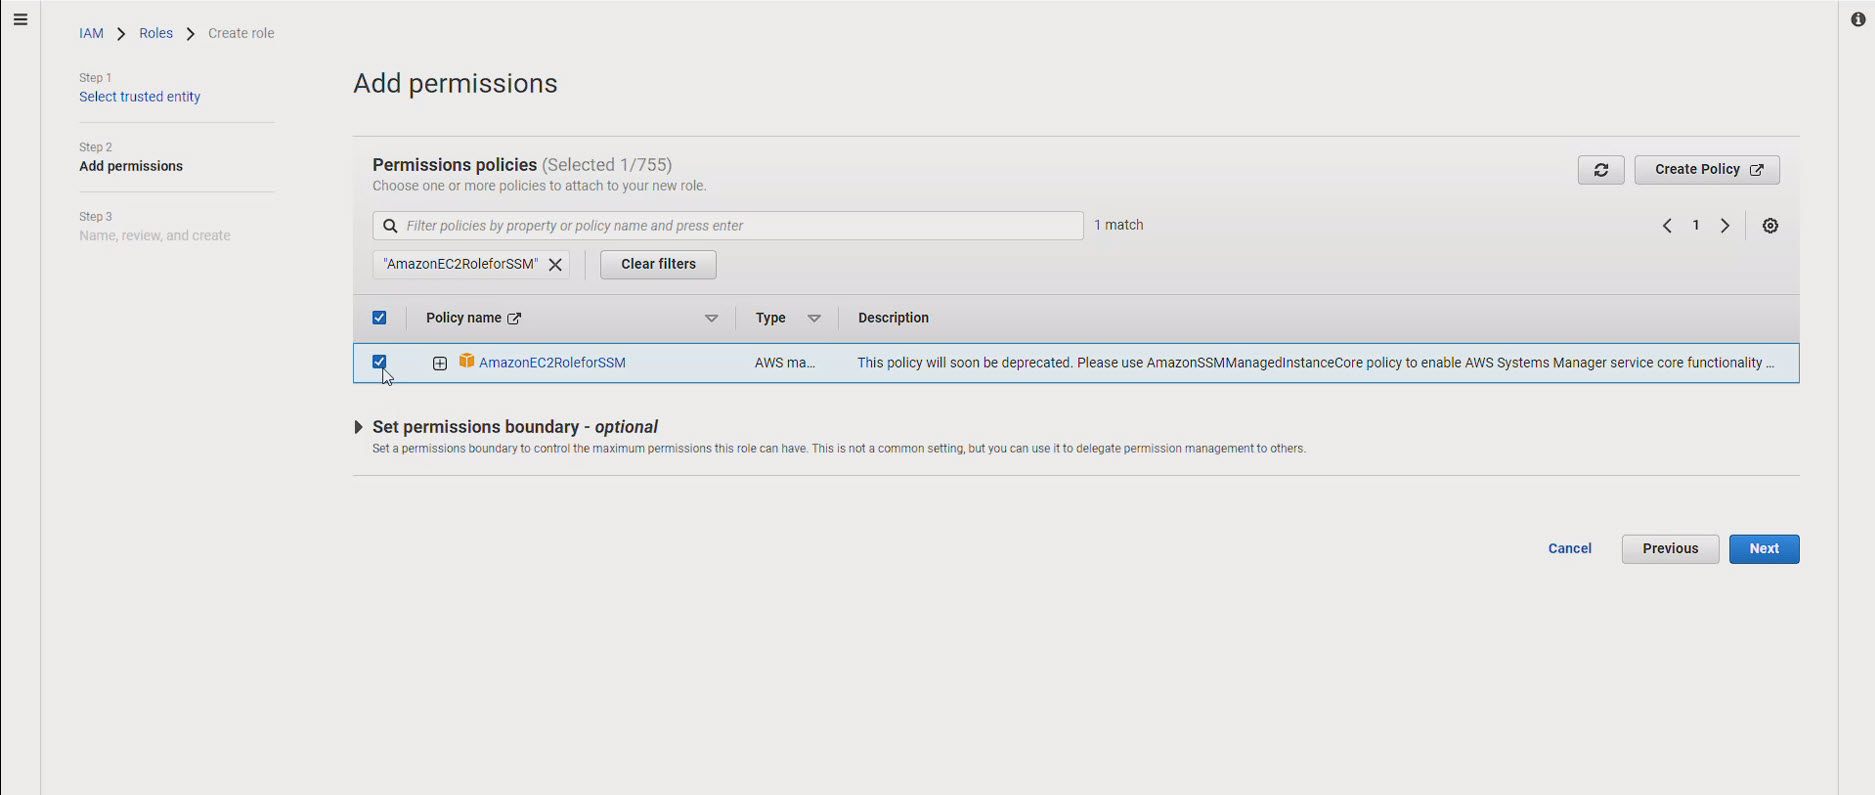
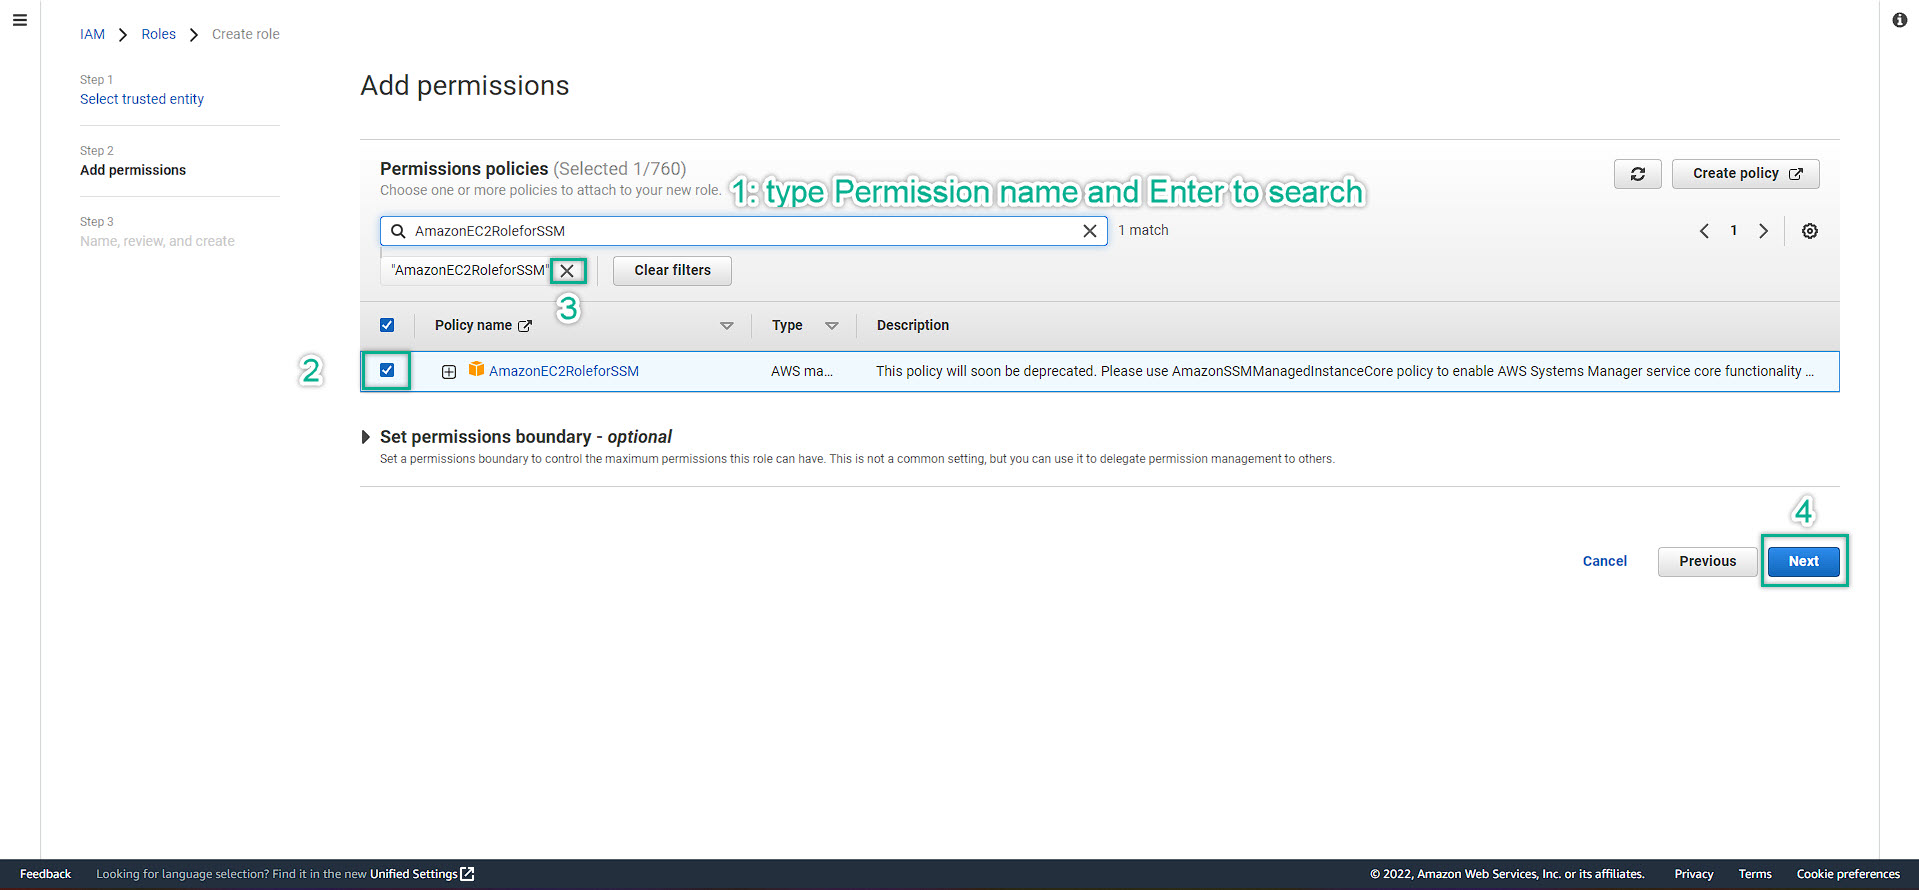
init

diff --git a/Windows-On-AWS-Basic/2-Prerequiste/2.1-create-iam-role/2.1.1-create-iam/_index.md b/Windows-On-AWS-Basic/2-Prerequiste/2.1-create-iam-role/2.1.1-create-iam/_index.md
@@ -11,13 +11,13 @@ Once you have done all of those labs, i understand that you are ready to deep di
 
 #### I. Create IAM Role
 - IAM - Identity Access Management: This can be considered as a permission which is grant access for users and/or aws resources to perform tasks. IAM best practice is to grant least privilege to users/aws resources. We can also grant permission that denial some tasks on specific users / aws resources
-- AWS Management Console => Search Box => search for IAM service 
-- IAM Management Console => Role => Create Role
+1. AWS Management Console => Search Box => search for IAM service 
+2. IAM Management Console => Role => Create Role
    ![IAM-Role](images/iam-1.jpg)
-- AWS Service => EC2 => Next
+3. AWS Service => EC2 => Next
    ![IAM-Role](images/iam-2.jpg)
-- Search for AmazonEC2RoleforSSM => mark the box. Then continue to search for the rest of following roles:
-- Remember to delete the found-out permission before to continue to search again. If not, it will be conflicted and cannot search out the next permission we need
+   - Search for AmazonEC2RoleforSSM => mark the box. Then continue to search for the rest of following roles:
+   - **Remember to delete the found-out** permission before to continue to search again by clicking the **"X"** . If not, it will be conflicted and cannot search out the next permission we need
   ![IAM-Role](images/iam-3.jpg)
 - The required permissions:
   CloudWatchAgentAdminPolicy; 
